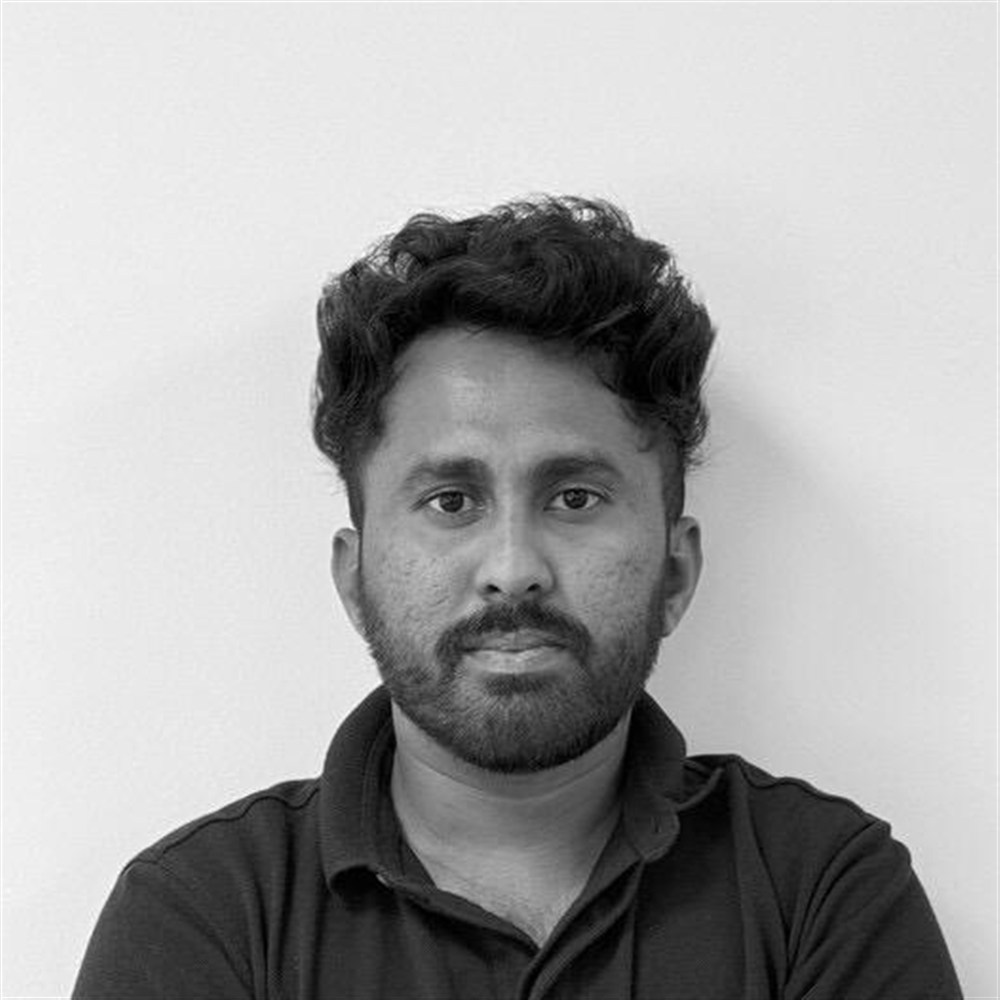
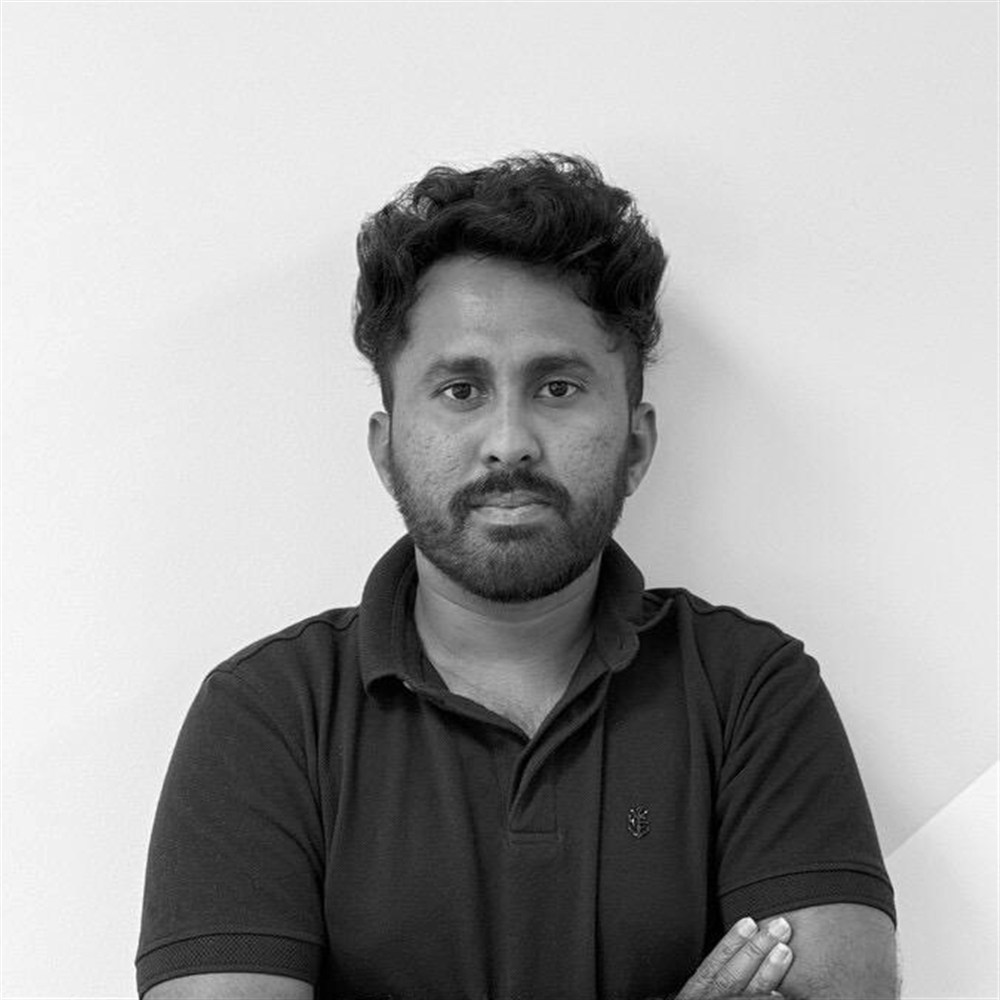
Show more of the portrait inside the circular profile crop.

Changed region(s): [[0.062, 0.155, 1.0, 1.0]]

diff --git a/index.html b/index.html
@@ -80,7 +80,7 @@
         <figure class="portrait">
           <div class="portrait-frame">
             <img
-              src="images/danuka.jpg?v=bw2"
+              src="images/danuka.jpg?v=bw3"
               width="1000"
               height="1000"
               alt="Black and white portrait of Danuka Malawaraarachchi"

diff --git a/css/styles.css b/css/styles.css
@@ -386,7 +386,7 @@ h1 {
   width: 100%;
   height: 100%;
   object-fit: cover;
-  object-position: center 12%;
+  object-position: center 20%;
   border-radius: 50%;
   border: 3px solid #0a1218;
   filter: grayscale(1) contrast(1.08) brightness(1.03);
